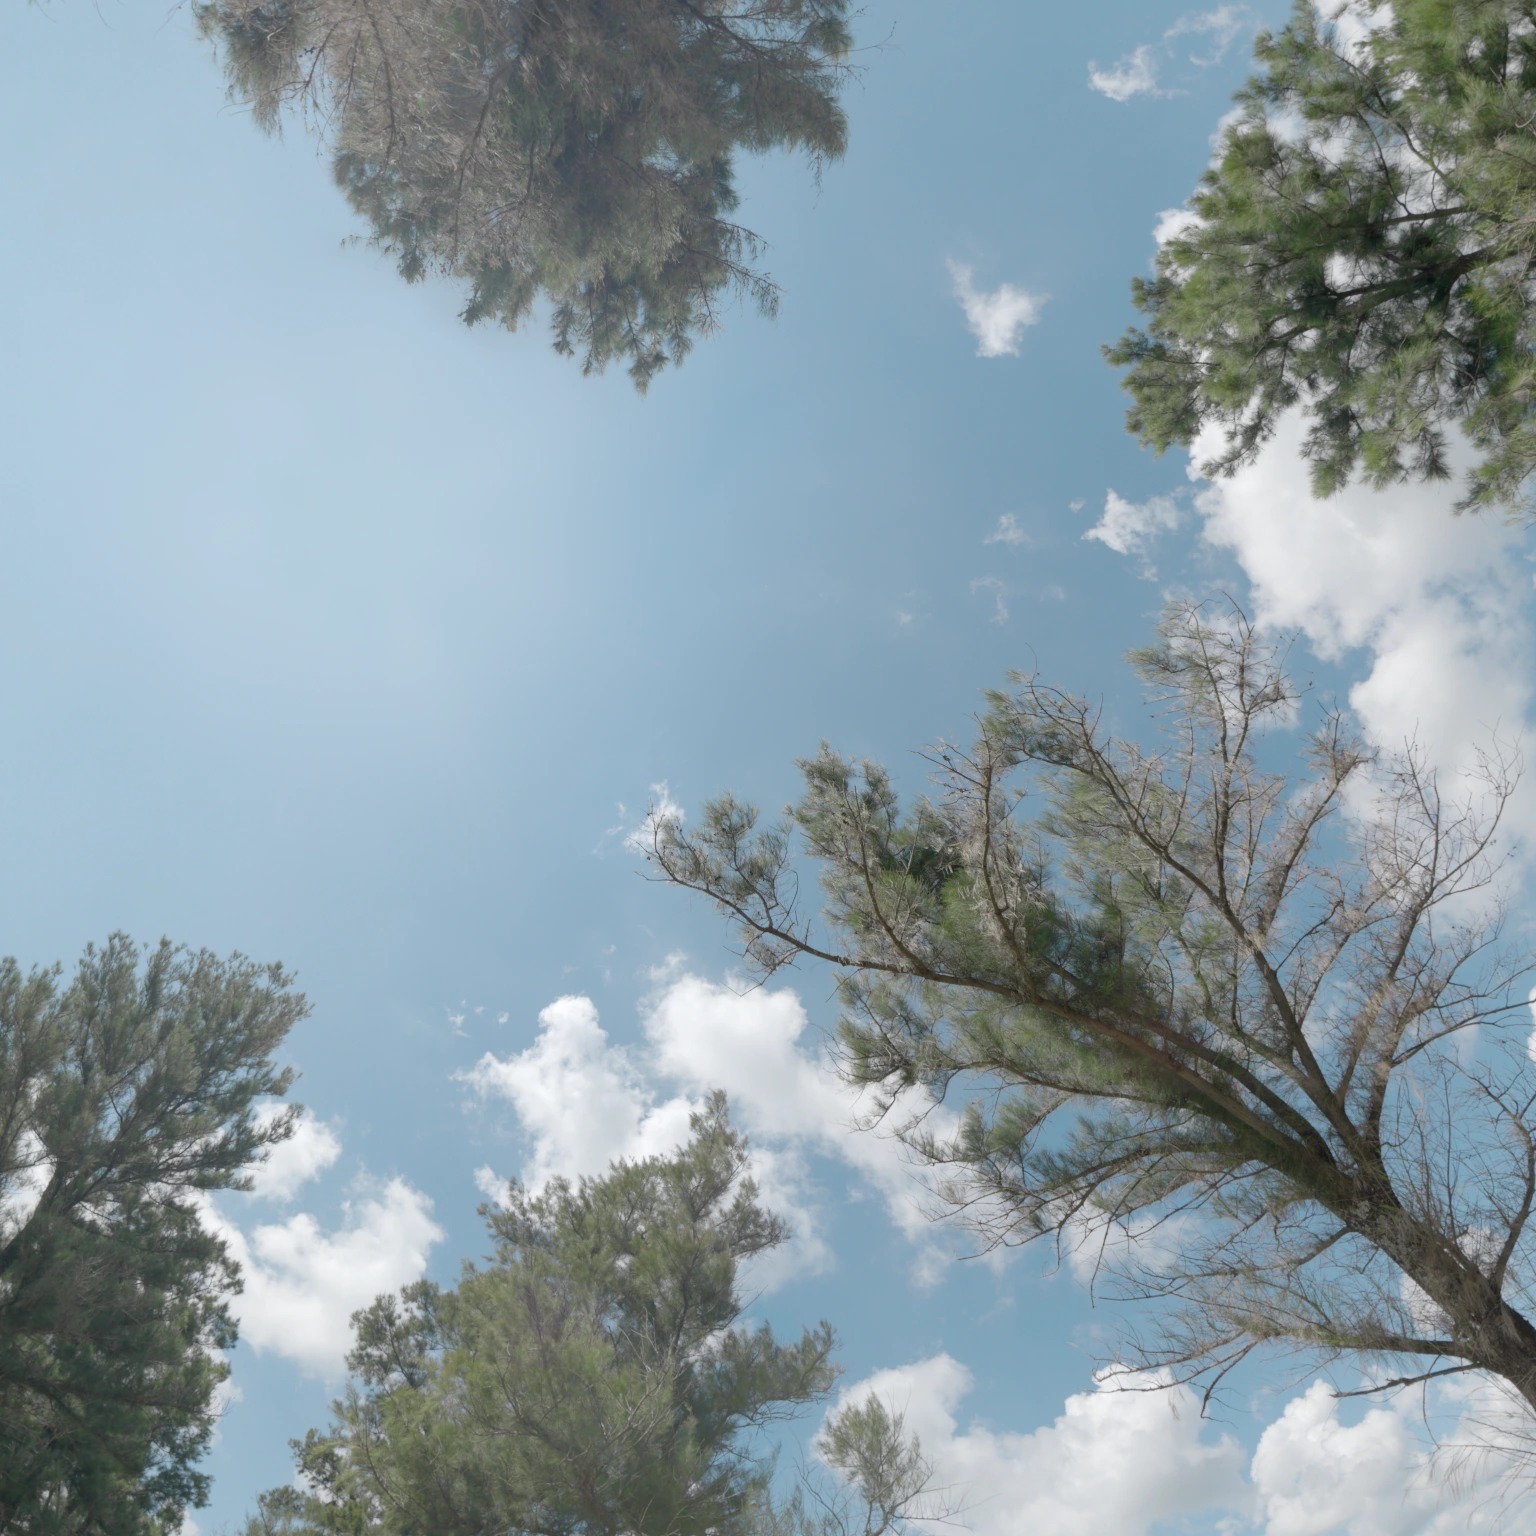
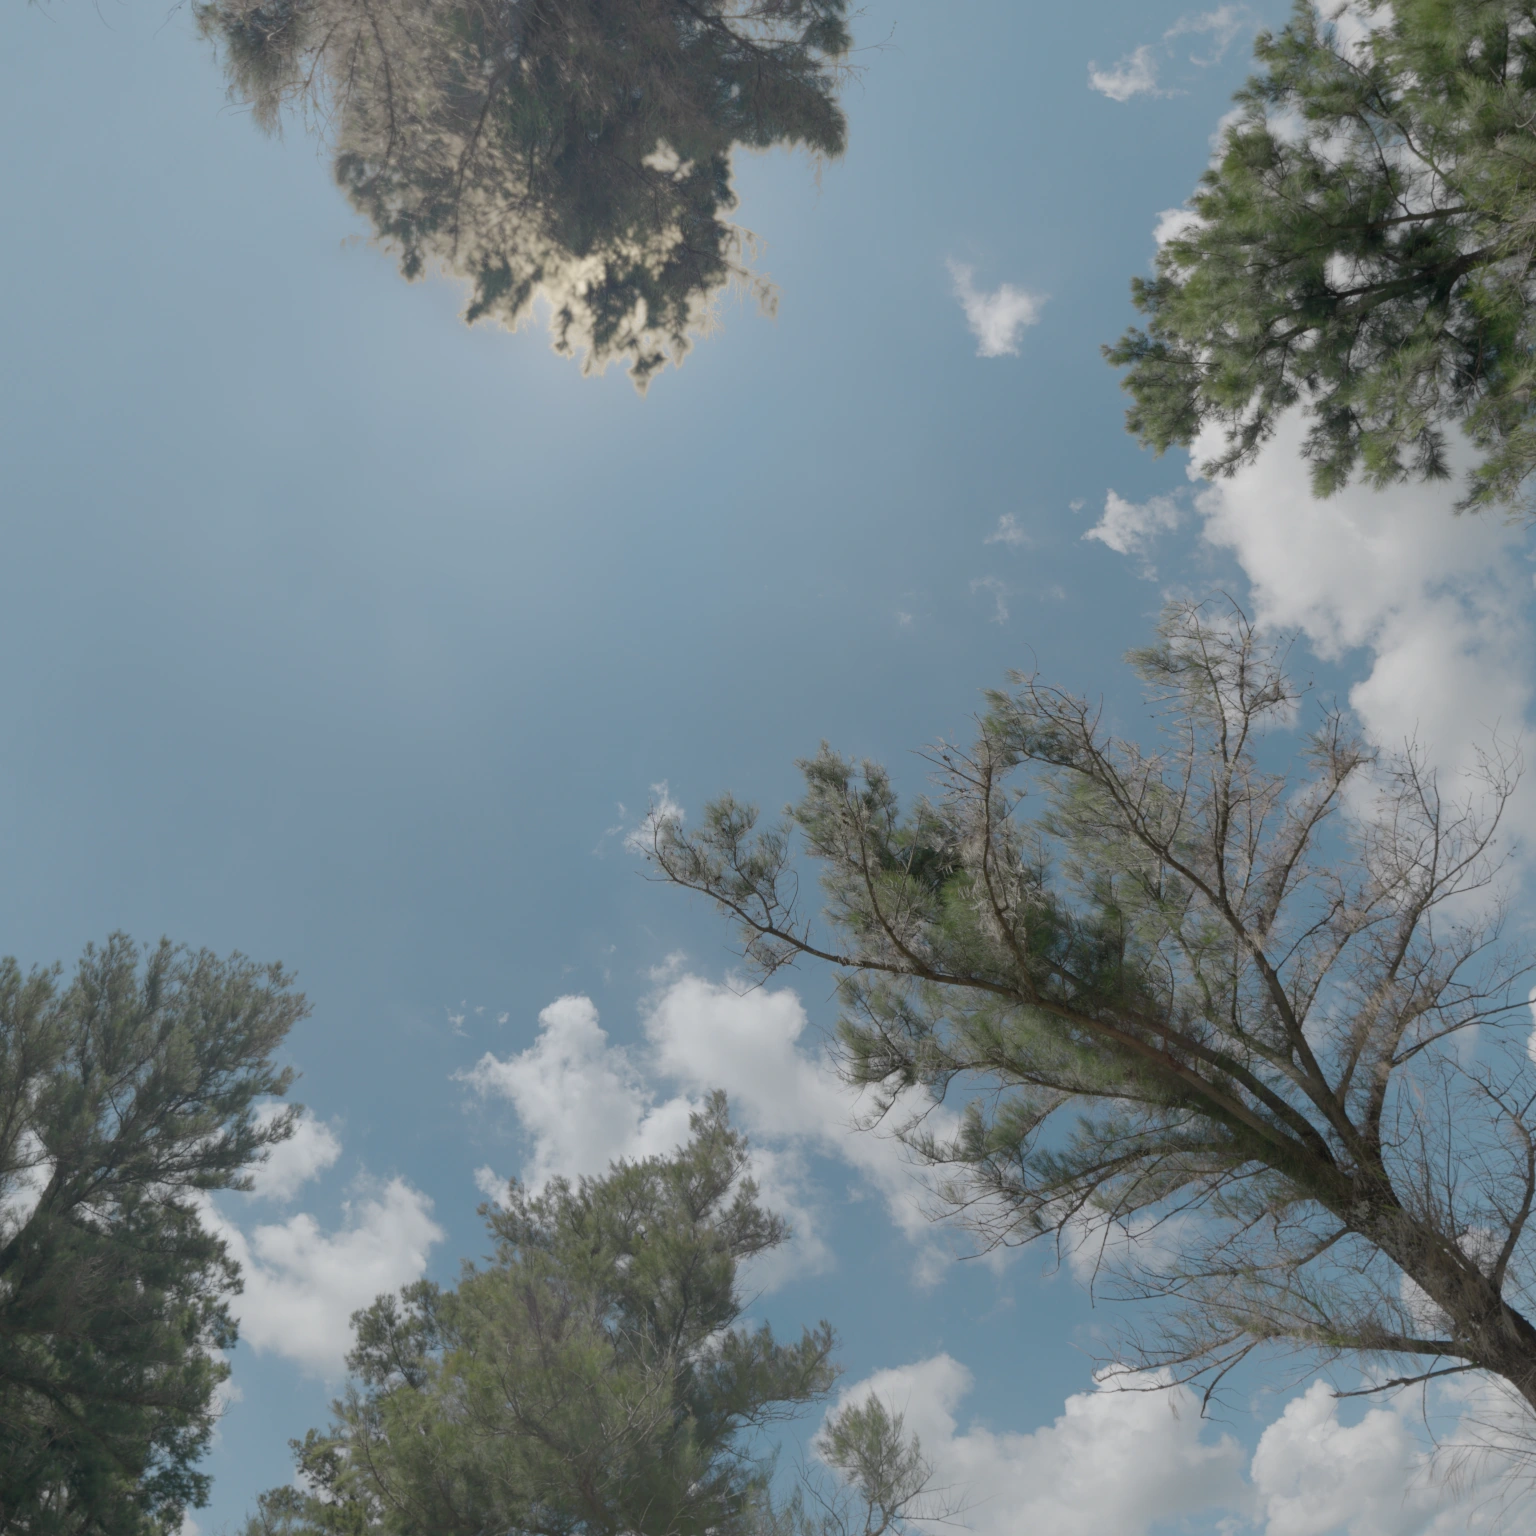
Lab: climb overexpose round 2
Claude-Session: https://claude.ai/code/session_01RqENhngNCzDFmJWDZueXGV

diff --git a/src/app/lab/overexpose/overexposeEngine.js b/src/app/lab/overexpose/overexposeEngine.js
@@ -19,7 +19,7 @@ import { createStage, clamp } from "../_kit/stage";
 // halation, halationColor, bloom, grain, grainSeed) match film.js.
 
 const LO = -8.5; // log2 radiance range of the shipped encoding (see experiment.json)
-const HI = 0.7;
+const HI = 2.5;
 const MIN_EV = -1;
 const MAX_EV = 3;
 const STOP = 0.225; // fraction of the print's height that is one stop of drag
